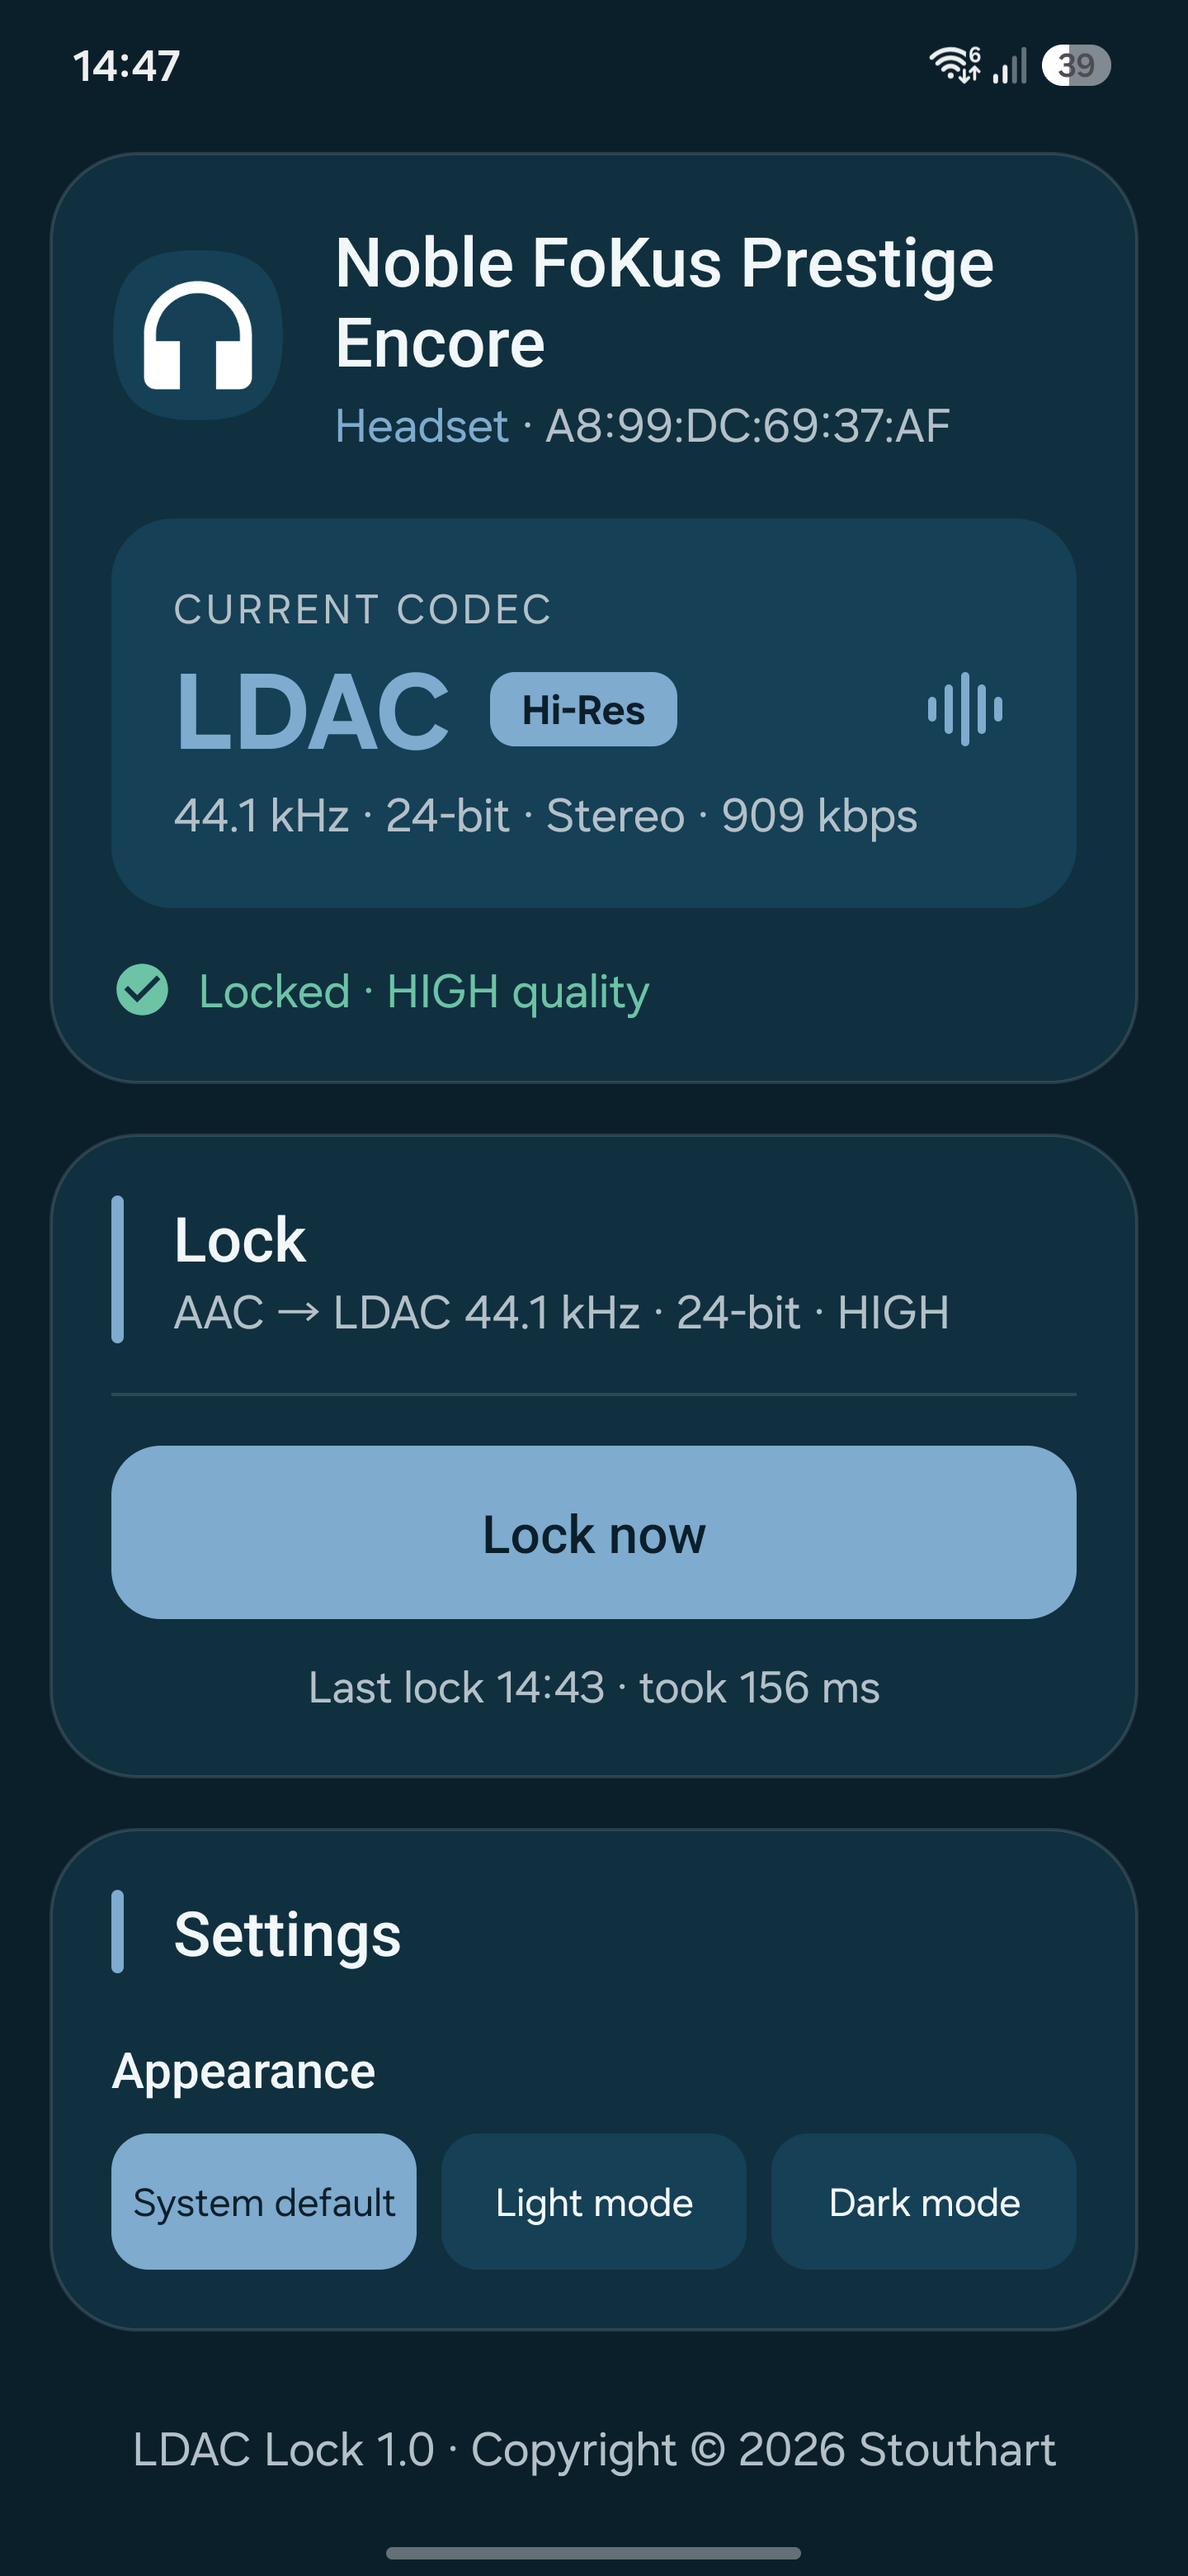
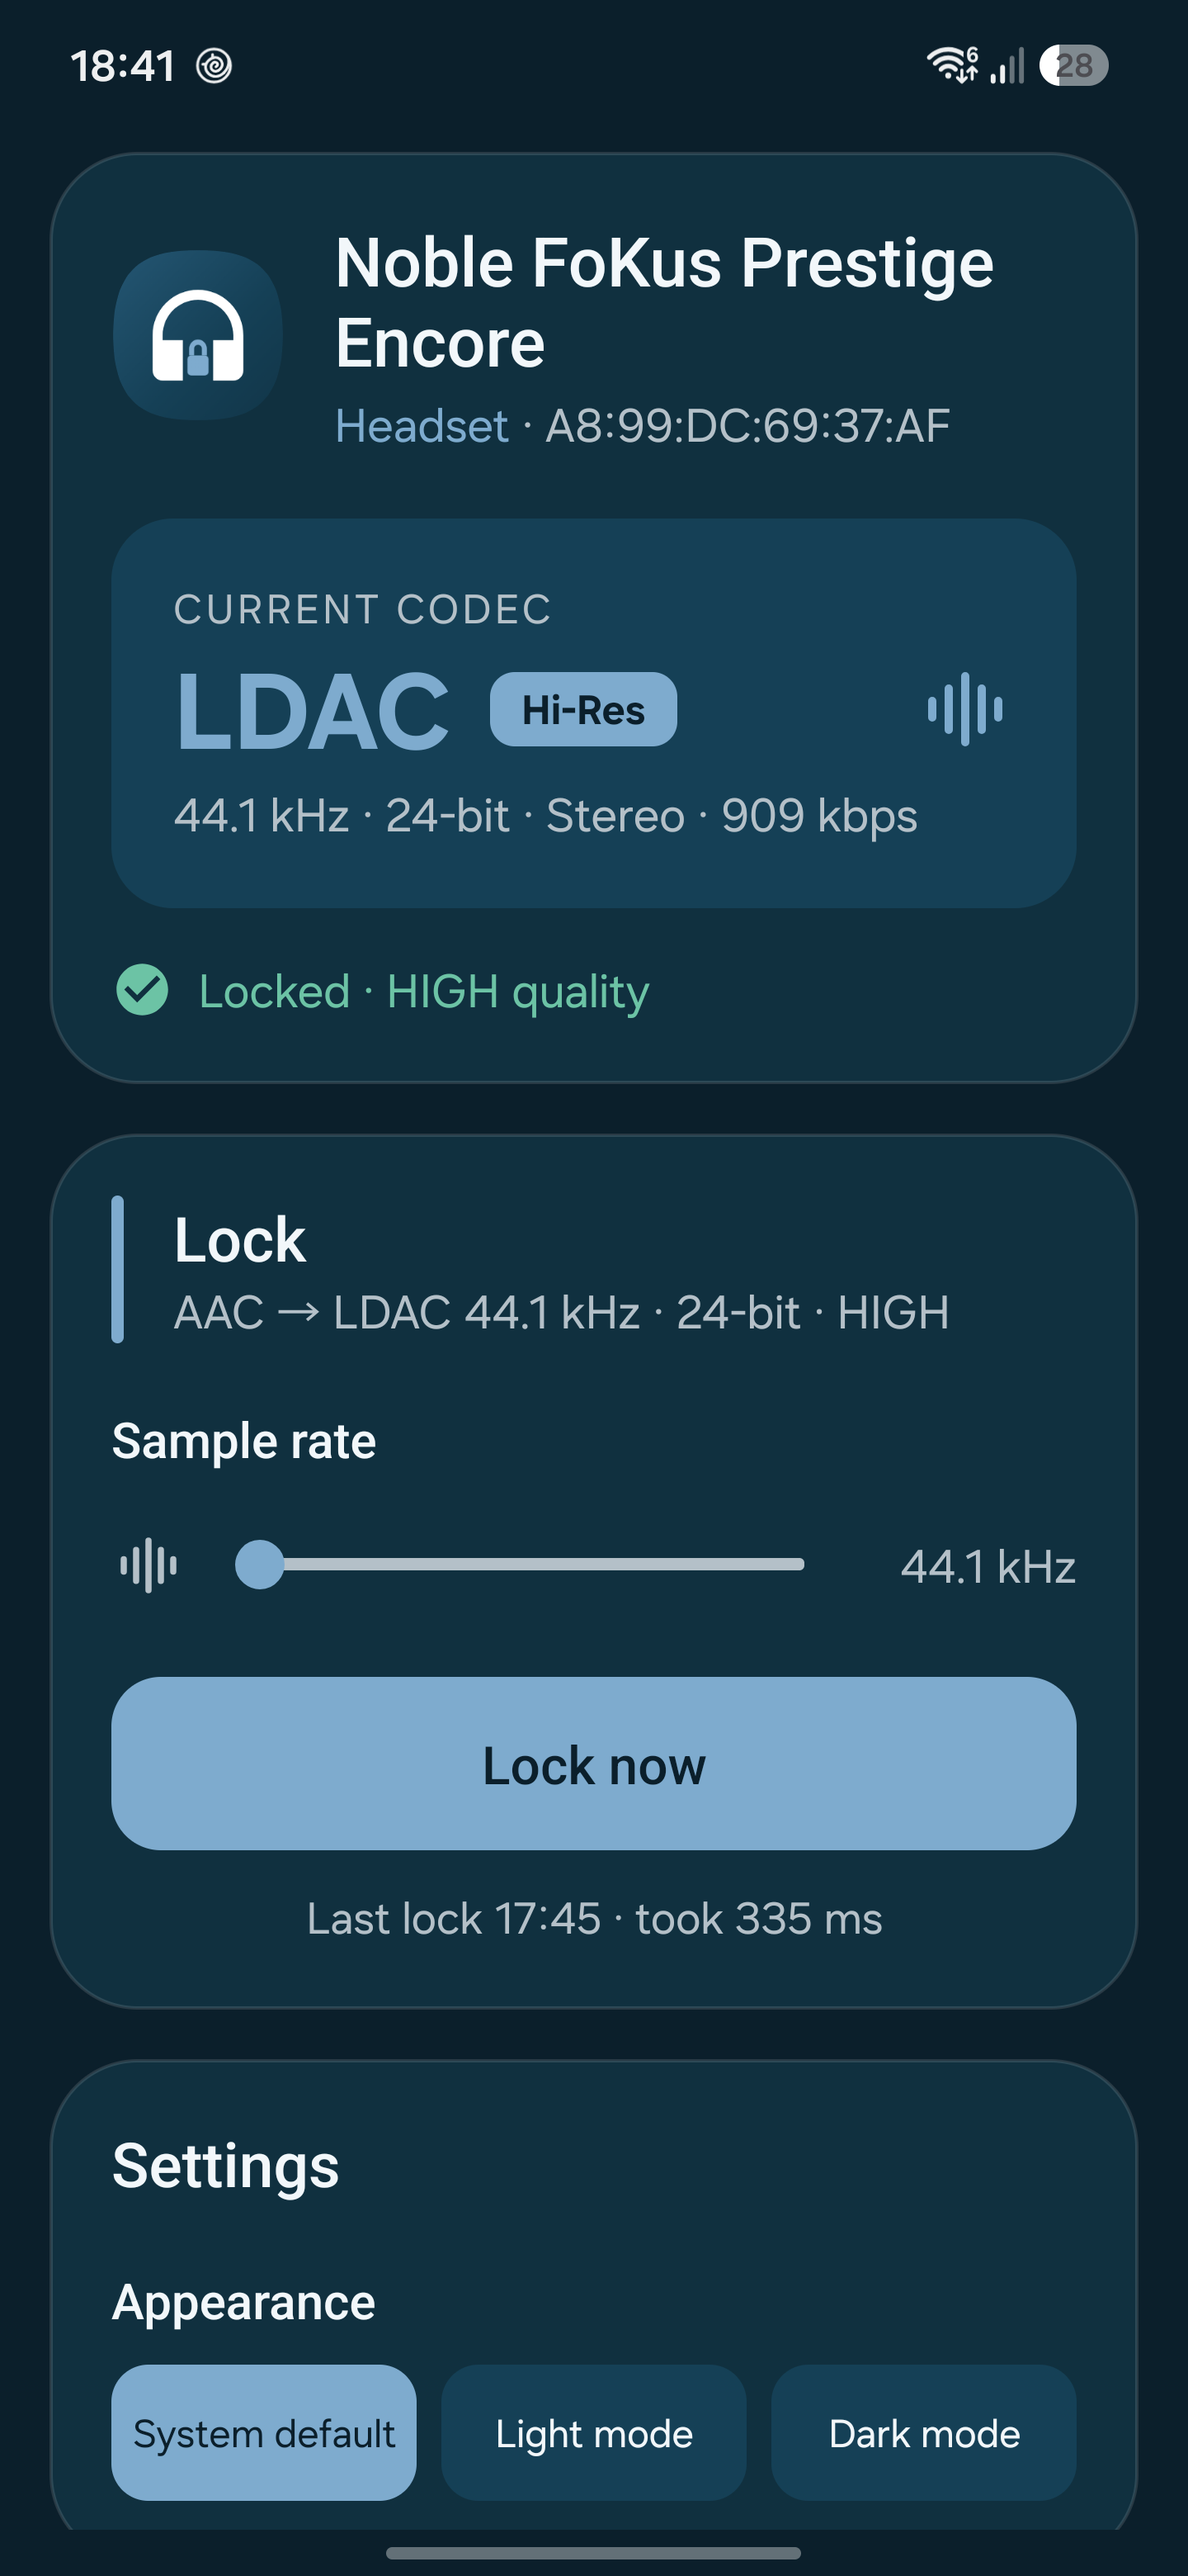
release: 1.1

diff --git a/app/src/main/java/nl/stouthart/ldaclock/MainActivity.kt b/app/src/main/java/nl/stouthart/ldaclock/MainActivity.kt
@@ -30,6 +30,7 @@ import android.text.format.DateFormat
 import android.text.style.ForegroundColorSpan
 import android.util.TypedValue
 import android.view.View
+import android.widget.SeekBar
 import android.widget.TextView
 import java.util.Date
 
@@ -62,6 +63,8 @@ class MainActivity : Activity(), BluetoothProfile.ServiceListener {
     private lateinit var state: TextView
     private lateinit var pair: TextView
     private lateinit var summary: TextView
+    private lateinit var rate: SeekBar
+    private lateinit var rateValue: TextView
     private lateinit var lock: TextView
     private lateinit var last: TextView
     private var a2dp: BluetoothA2dp? = null
@@ -87,6 +90,8 @@ class MainActivity : Activity(), BluetoothProfile.ServiceListener {
         state = findViewById(R.id.state)
         pair = findViewById(R.id.pair)
         summary = findViewById(R.id.summary)
+        rate = findViewById(R.id.rate)
+        rateValue = findViewById(R.id.rate_value)
         lock = findViewById(R.id.lock)
         last = findViewById(R.id.last)
         findViewById<TextView>(R.id.copyright).text = getString(R.string.copyright, BuildConfig.VERSION_NAME)
@@ -96,6 +101,18 @@ class MainActivity : Activity(), BluetoothProfile.ServiceListener {
             lock.setText(R.string.locking)
             startForegroundService(Intent(this, LockService::class.java))
         }
+        // Saved at once; the next lock, from here or the tile, aims at it. Never a lock by itself.
+        rate.setOnSeekBarChangeListener(object : SeekBar.OnSeekBarChangeListener {
+            override fun onProgressChanged(s: SeekBar, p: Int, user: Boolean) {
+                if (!user) return // showLast() set it.
+                Rate.set(this@MainActivity, Rate.HZ[p])
+                showLast()
+            }
+
+            override fun onStartTrackingTouch(s: SeekBar) = Unit
+
+            override fun onStopTrackingTouch(s: SeekBar) = Unit
+        })
         if (checkSelfPermission(BLUETOOTH_CONNECT) != PERMISSION_GRANTED) requestPermissions(arrayOf(BLUETOOTH_CONNECT), 0)
         appearance()
     }
@@ -196,8 +213,11 @@ class MainActivity : Activity(), BluetoothProfile.ServiceListener {
 
     private fun showLast() {
         val p = Phone.path(this)
-        summary.text = if (p?.hardware == true) getString(R.string.lock_summary_direct, khz(p.hz))
-        else getString(R.string.lock_summary_hop, khz(p?.hz ?: 44100))
+        val hz = Rate.target(this, p) // Until the slider is moved, the phone's own, known after the first lock.
+        rate.progress = Rate.HZ.indexOf(hz).coerceAtLeast(0)
+        rateValue.text = khz(hz)
+        rate.stateDescription = rateValue.text // TalkBack says "48 kHz", not "33 percent".
+        summary.text = getString(if (p?.hardware == true) R.string.lock_summary_direct else R.string.lock_summary_hop, khz(hz))
         Last.notice?.let {
             last.text = it
             last.shown = true

diff --git a/app/src/main/java/nl/stouthart/ldaclock/Codec.kt b/app/src/main/java/nl/stouthart/ldaclock/Codec.kt
@@ -103,18 +103,29 @@ private fun skipTo(r: BufferedReader, line: String): Boolean {
 /** The steps and the LDAC rate they end on. */
 class Plan(val steps: List<BluetoothCodecConfig>, val hz: Int)
 
+private fun rateBit(hz: Int) = when (hz) {
+    48000 -> SAMPLE_RATE_48000
+    88200 -> SAMPLE_RATE_88200
+    96000 -> SAMPLE_RATE_96000
+    else -> SAMPLE_RATE_44100
+}
+
 /**
- * Builds the steps from the phone's path and what the headphone can select.
- * Software or unknown: AAC → 32-bit → 24-bit at 44.1 kHz. Hardware: one LDAC change, at the mixer's rate.
+ * Builds the steps to LDAC at [want] Hz from the phone's path and what the headphone can select.
+ * Software or unknown: AAC → 32-bit → 24-bit. Hardware: one LDAC change.
  */
-fun plan(s: BluetoothCodecStatus?, path: Path?): Plan {
+fun plan(s: BluetoothCodecStatus?, path: Path?, want: Int): Plan {
     val caps = s?.codecsSelectableCapabilities.orEmpty()
     val ldac = caps.firstOrNull { it.isLdac }
-    val want = if (path?.hz == 48000) SAMPLE_RATE_48000 else SAMPLE_RATE_44100
-    // Fall back to the other of 44.1/48 kHz only if the headphone doesn't offer the wanted one.
-    val rate = if (ldac == null || (ldac.sampleRate and want) != 0) want
-    else if (want == SAMPLE_RATE_44100) SAMPLE_RATE_48000 else SAMPLE_RATE_44100
-    val hz = if (rate == SAMPLE_RATE_44100) 44100 else 48000
+    // A rate the headphone doesn't offer falls back within its family first (88.2 → 44.1, 96 → 48), then to the other.
+    val order = when (want) {
+        96000 -> intArrayOf(96000, 48000, 44100)
+        88200 -> intArrayOf(88200, 44100, 48000)
+        48000 -> intArrayOf(48000, 44100)
+        else -> intArrayOf(44100, 48000)
+    }
+    val hz = if (ldac == null) want else order.firstOrNull { (ldac.sampleRate and rateBit(it)) != 0 } ?: want
+    val rate = rateBit(hz)
     if (path?.hardware == true) return Plan(listOf(config(SOURCE_CODEC_TYPE_LDAC, rate, BITS_PER_SAMPLE_24, QUALITY_990)), hz)
     // A different codec forces a fresh stream; SBC is the fallback every headphone has.
     val via = if (caps.any { it.codecType == SOURCE_CODEC_TYPE_AAC }) SOURCE_CODEC_TYPE_AAC else SOURCE_CODEC_TYPE_SBC

diff --git a/app/src/main/java/nl/stouthart/ldaclock/Rate.kt b/app/src/main/java/nl/stouthart/ldaclock/Rate.kt
@@ -1,0 +1,15 @@
+package nl.stouthart.ldaclock
+
+import android.content.Context
+
+/** The Sample rate setting: the LDAC rate a lock aims at, in four steps; until it's moved, the phone's own. */
+object Rate {
+    val HZ = intArrayOf(44100, 48000, 88200, 96000)
+
+    private fun prefs(c: Context) = c.getSharedPreferences("rate", Context.MODE_PRIVATE)
+
+    fun set(c: Context, hz: Int) = prefs(c).edit().putInt("hz", hz).apply()
+
+    /** The chosen rate, else the phone's: 44.1 kHz in software, the mixer's rate in hardware. */
+    fun target(c: Context, path: Path?) = prefs(c).getInt("hz", 0).takeIf { it in HZ } ?: path?.hz ?: 44100
+}

diff --git a/app/src/main/java/nl/stouthart/ldaclock/LockService.kt b/app/src/main/java/nl/stouthart/ldaclock/LockService.kt
@@ -117,7 +117,7 @@ class LockService : Service(), BluetoothProfile.ServiceListener {
                 Last.notice(this, getString(R.string.pause_first))
                 return
             }
-            val plan = plan(status, path)
+            val plan = plan(status, path, Rate.target(this, path))
             val steps = Hop(this, a2dp, device, plan.steps, resend = !hardware).run()
             val t1 = SystemClock.elapsedRealtimeNanos()
             val e = if (hardware) null else ldacEncoder() // The DSP's encoder isn't in the dump.

diff --git a/README.md b/README.md
@@ -1,12 +1,12 @@
-<!-- 1.0 - Copyright (C) 2026 Stouthart. All rights reserved. -->
+<!-- 1.1 - Copyright (C) 2026 Stouthart. All rights reserved. -->
 
 # Lock Bluetooth LDAC at its highest quality
 
-A small Android app that sets a headphone's **LDAC** connection to its highest quality with one tap, from a Quick Settings tile or the app itself. Android starts every LDAC connection at adaptive quality, which lowers the bitrate whenever the connection gets busy, and on Samsung phones a plain change of the quality setting doesn't even reach the encoder. LDAC Lock makes the change stick, then checks what the encoder actually runs. No internet access, no ads, no account, no background service, and nothing beyond Android itself: the app is 73 KB.
+A small Android app that sets a headphone's **LDAC** connection to its highest quality with one tap, from a Quick Settings tile or the app itself. Android starts every LDAC connection at adaptive quality, which lowers the bitrate whenever the connection gets busy, and on Samsung phones a plain change of the quality setting doesn't even reach the encoder. LDAC Lock makes the change stick, then checks what the encoder actually runs. No internet access, no ads, no account, no background service, and nothing beyond Android itself: the app is 75 KB.
 
 <p align="center"><img src="docs/screenshot-s25.png" width="360" alt="LDAC Lock on a Galaxy S25 Edge, locked at LDAC 44.1 kHz, 24-bit, 909 kbps"></p>
 
-This is **version 1.0**. The [release notes](RELEASE.md) list what each version changed.
+This is **version 1.1**. The [release notes](RELEASE.md) list what each version changed.
 
 ## What it sets
 
@@ -17,21 +17,23 @@ This is **version 1.0**. The [release notes](RELEASE.md) list what each version 
 
 HIGH is LDAC's top quality, known as 990 kbps: it runs at 990 kbps at 48 and 96 kHz, and at 909 kbps at 44.1 and 88.2 kHz.
 
+These are the defaults. **Sample rate** in the Lock section sets 44.1, 48, 88.2 or 96 kHz instead, for the app and the tile alike; a rate the headphone doesn't offer falls back to 44.1 or 48 kHz. Mind the mixer: on Samsung it follows the codec, so above 44.1 kHz the phone resamples 44.1 kHz music; RedMagic's stays at 48 kHz, so any other rate adds a resample in the audio chip.
+
 ## Requirements
 
-- **Android 16** or newer
+- **Android 14** or newer
 - A headphone with **LDAC**
 - **adb** on a computer, to grant one permission (recommended, see [Installation](#installation))
 - To build it yourself: **JDK 21** and the **Android SDK** command-line tools with `platforms;android-37.0` and `build-tools;37.0.0`. The project brings its own Gradle.
 
-Developed and tested on a **Samsung Galaxy S25 Edge** (One UI 9, Android 17) and a **RedMagic Astra** (REDMAGIC OS 11, Android 16), with Noble FoKus Prestige Encore and FoKus Amadeus headphones. Other Samsung and RedMagic devices should work alike. On other phones LDAC Lock detects which kind of encoder they have and picks the matching method, but that is untested.
+Developed and tested on a **Samsung Galaxy S25 Edge** (One UI 9, Android 17) and a **RedMagic Astra** (REDMAGIC OS 11, Android 16), with Noble FoKus Prestige Encore and FoKus Amadeus headphones. Other Samsung and RedMagic devices should work alike. On other phones LDAC Lock detects which kind of encoder they have and picks the matching method, but that is untested. So are Android 14 and 15: the method was worked out on Android 16 and 17, and an older Bluetooth stack may behave or report differently.
 
 ## Installation
 
-Download `LDAC-Lock-1.0.apk` from the [latest release] and open it on the phone; Android asks to allow installing apps from that source first. Or install it from a computer with the phone connected over USB or wireless debugging:
+Download `LDAC-Lock-1.1.apk` from the [latest release] and open it on the phone; Android asks to allow installing apps from that source first. Or install it from a computer with the phone connected over USB or wireless debugging:
 
 ```bash
-adb install LDAC-Lock-1.0.apk
+adb install LDAC-Lock-1.1.apk
 ```
 
 Then grant the one permission an app can't ask for itself:
@@ -66,8 +68,8 @@ Your build is signed with your own debug key, the release APK with mine. Android
 
 Tap the tile, or **Lock now** in the app. LDAC Lock works on the headphone Android is playing to; with two connected, the other one is left alone.
 
-- **Samsung (software encoder):** it switches to AAC and back to LDAC, at 44.1 kHz with 32-bit and then 24-bit, each at the top quality. The detour makes the phone reopen the stream, which a plain LDAC change doesn't do on Samsung, and the 32 → 24-bit step makes the stack pass the quality on. Music pauses for about a second and a half. Samsung resets LDAC on every connection, so tap once per connection.
-- **RedMagic (hardware encoder):** one LDAC change to 48 kHz, 24-bit, top quality, and only with playback paused: a change while music plays leaves the audio chip silent, sometimes until the headphone reconnects. While music plays, a tap only shows **Pause first**. The setting stays across reconnects.
+- **Samsung (software encoder):** it switches to AAC and back to LDAC, at 44.1 kHz or the chosen **Sample rate**, with 32-bit and then 24-bit, each at the top quality. The detour makes the phone reopen the stream, which a plain LDAC change doesn't do on Samsung, and the 32 → 24-bit step makes the stack pass the quality on. Music pauses for about a second and a half. Samsung resets LDAC on every connection, so tap once per connection.
+- **RedMagic (hardware encoder):** one LDAC change to 48 kHz or the chosen **Sample rate**, 24-bit, top quality, and only with playback paused: a change while music plays leaves the audio chip silent, sometimes until the headphone reconnects. While music plays, a tap only shows **Pause first**. The setting stays across reconnects.
 
 The screen shows the headphone, the current codec and whether it is locked, and follows the headphone and Bluetooth as they change.
 
@@ -94,7 +96,7 @@ RedMagic's round tiles don't show a second line, so there the tile's name carrie
 | `Locked · quality not readable on this device` | Rate, bit depth and the reported quality match; RedMagic's audio chip doesn't report what it actually runs     |
 | `Not locked`                                   | Another codec, rate or bit depth                                                                                 |
 
-Below **Lock now**, the last lock shows its time and how long it took, or why it failed.
+Above **Lock now**, **Sample rate** sets the rate the next lock aims at; moving it never locks by itself. Below, the last lock shows its time and how long it took, or why it failed.
 
 Under **Settings**, **Appearance** sets the app's look: **System default** follows the phone, **Light mode** and **Dark mode** set it for LDAC Lock alone.
 

diff --git a/RELEASE.md b/RELEASE.md
@@ -1,8 +1,14 @@
-<!-- 1.0 - Copyright (C) 2026 Stouthart. All rights reserved. -->
+<!-- 1.1 - Copyright (C) 2026 Stouthart. All rights reserved. -->
 
 # Release notes
 
 Highlights per version, newest first.
+
+## 1.1 - November 2026
+
+- **Android 14 and 15** as well, besides 16 and 17. Untested on those versions so far: the method was worked out on 16 and 17, and an older Bluetooth stack may behave or report differently.
+- **Sample rate** in the Lock section: 44.1, 48, 88.2 or 96 kHz, for the app and the tile alike. Until it's moved, the phone's own: 44.1 kHz on Samsung, 48 kHz on RedMagic. Locks at 88.2 kHz checked on both.
+- **New icon:** a gradient in the logo's blues, with a light-blue padlock between the headphones.
 
 ## 1.0 - November 2026
 
